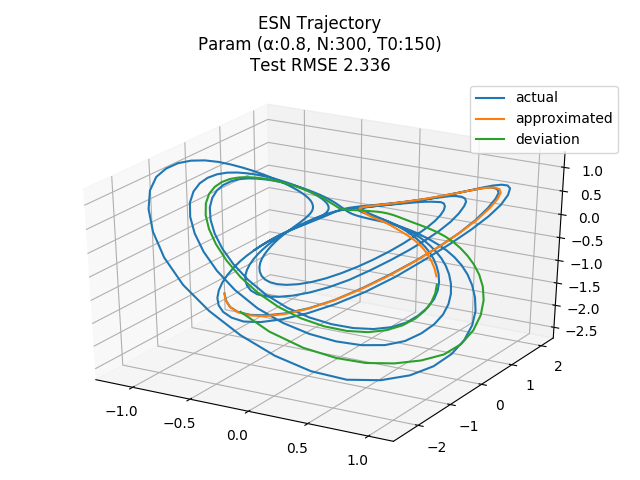
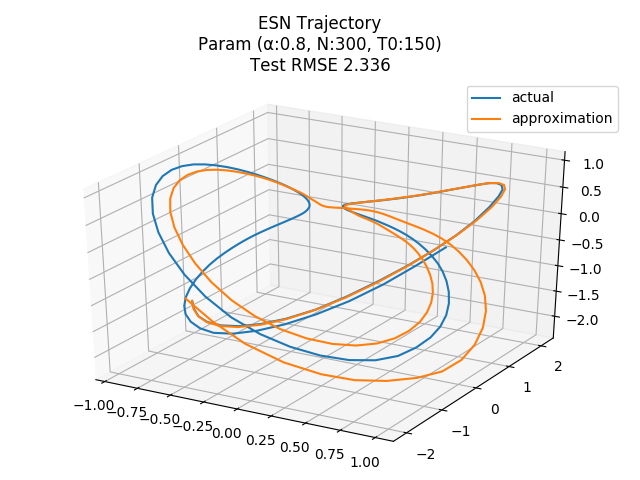
better formatting of lorenz pictures

diff --git a/doc/paper/scripts/AnalyzeResultsLorenz.py b/doc/paper/scripts/AnalyzeResultsLorenz.py
@@ -60,16 +60,19 @@ for rank, i in enumerate(sorter[:how_many]):
     plt.savefig(os.path.join(dir_pre, name))
     plt.close()
 
-    runt['results'].t = ts_data.test_t
-    runt['results'].y = ds_test.T
+    #runt['results'].t = ts_data.test_t
+    #runt['results'].y = ds_test.T
+    #fig = slvr.plot3d(runt)
+    runt['results'].t = ts_data.test_t[:higher_score[i]+1]
+    runt['results'].y = ds_test[:higher_score[i]+1].T
     fig = slvr.plot3d(runt)
-    runt['results'].t = ts_data.test_t[:score[i]]
-    runt['results'].y = ys_test[:score[i]].T
+    #runt['results'].t = ts_data.test_t[:score[i]+1]
+    #runt['results'].y = ys_test[:score[i]+1].T
+    #slvr.plot3d(runt, fig)
+    runt['results'].t = ts_data.test_t[:higher_score[i]+1]
+    runt['results'].y = ys_test[:higher_score[i]+1].T
     slvr.plot3d(runt, fig)
-    runt['results'].t = ts_data.test_t[score[i]:higher_score[i]]
-    runt['results'].y = ys_test[score[i]:higher_score[i]].T
-    slvr.plot3d(runt, fig)
-    plt.legend(['actual', 'approximated', 'deviation'])
+    plt.legend(['actual', 'approximation'])
     title = 'ESN Trajectory\nParam {}\nTest RMSE {:.4}'
     param_title = '(α:{}, N:{}, T0:{})'.format(*results['params'][i])
     plt.title(title.format(param_title, total_rmse))
@@ -77,5 +80,5 @@ for rank, i in enumerate(sorter[:how_many]):
     name = 'rank_{}_param_{}_fit.png'.format(rank, i)
     plt.savefig(os.path.join(
         dir_pre, name))
-    plt.close()
     # plt.show(True)
+    plt.close()
